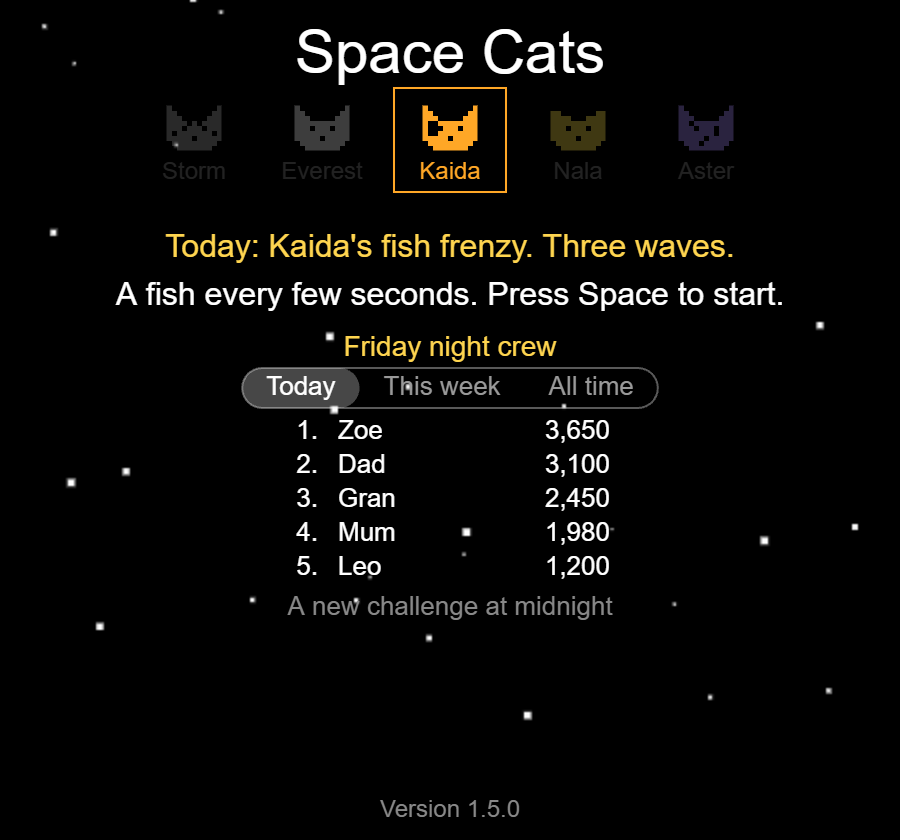
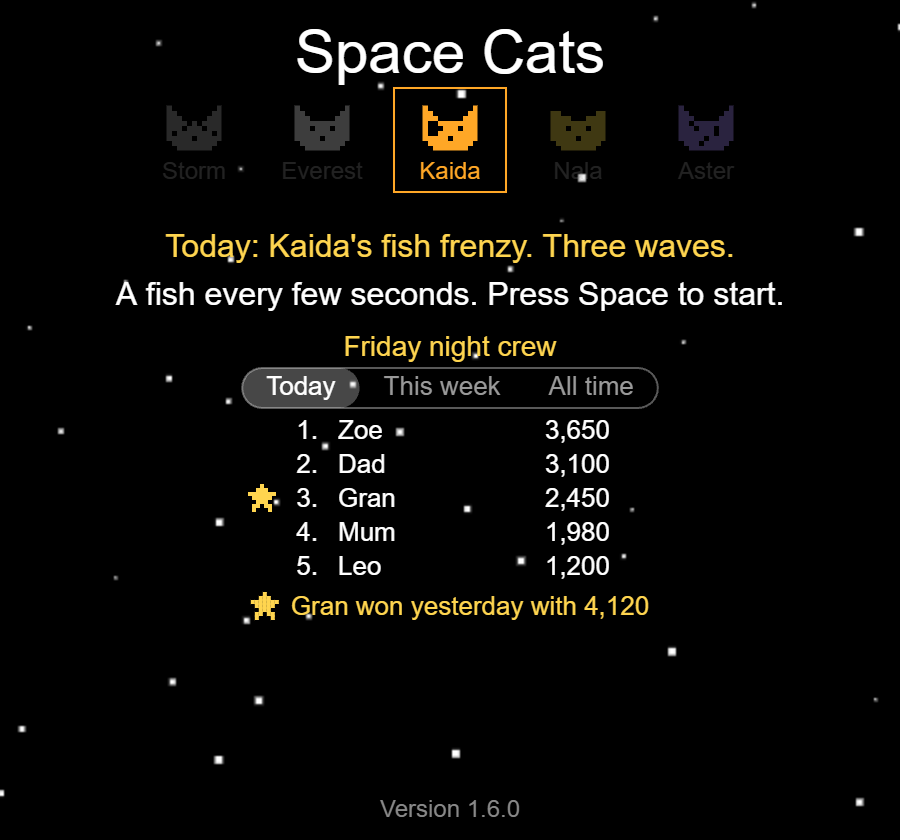
Give yesterday's challenge winner a star on the Today board
The Today board now names the winner of yesterday's challenge under its
top 10, next to a little gold pixel star, and if they've played today
too, the star sits beside their row, like the weekly crown. The board
reads yesterday's best from days/{day}/bests, which the rules already
allow, so nothing new is written. Space Cats 1.6.0; the README and its
picture of today's challenge show the star.

diff --git a/games/space-cats/js/spacecats.js b/games/space-cats/js/spacecats.js
@@ -1088,17 +1088,20 @@ function hasLeaderboard(game) {
 }
 
 //  Draws the leaderboard from y down: the board's name, a switch between
-//  this week's top 10 and the all-time one, each player's best, and under
-//  them who won last week. The player who just played is picked out,
+//  today's challenge's top 10, this week's and the all-time one, each
+//  player's best, and under them who won last week (or on Today, who won
+//  yesterday's challenge). The player who just played is picked out,
 //  scores from this device that are still waiting to go up are grey, and
-//  last week's winner has a crown if they're on this week's board too. It
-//  says if the board couldn't be reached.
+//  last week's winner has a crown if they're on this week's board too, as
+//  yesterday's winner has a star on today's. It says if the board couldn't
+//  be reached.
 function drawLeaderboard(game, ctx, y) {
   var board = game.leaderboard;
   var view = game.boardView;
   var weekly = view === 'week';
   var entries = board.top(view);
-  var champion = weekly ? board.champion() : null;
+  var champion = view === 'all' ? null : board.champion(view);
+  var badge = weekly ? CROWN : STAR;
   var x = game.width / 2;
   var rowsY = y + 42;
   var footerY = rowsY + Math.max(entries.length, 1) * 17 + 3;
@@ -1116,7 +1119,7 @@ function drawLeaderboard(game, ctx, y) {
     var entry = entries[i];
     var rowY = rowsY + i * 17;
     if (champion && entry.key === champion.key) {
-      drawCrown(ctx, x - 94, rowY);
+      drawBadge(ctx, badge, x - 94, rowY);
     }
     ctx.fillStyle = entry.key === board.highlightKey ? '#ffd54f' : (entry.pending ? '#999999' : '#ffffff');
     ctx.textAlign = "right";
@@ -1131,12 +1134,12 @@ function drawLeaderboard(game, ctx, y) {
     ctx.fillStyle = '#888888';
     ctx.fillText("Leaderboard offline", x, footerY);
   } else if (champion) {
-    var text = champion.name + " won last week with " + withCommas(champion.score);
-    var width = CROWN_WIDTH + 6 + ctx.measureText(text).width;
-    drawCrown(ctx, x - width / 2 + CROWN_WIDTH / 2, footerY);
+    var text = champion.name + (weekly ? " won last week with " : " won yesterday with ") + withCommas(champion.score);
+    var width = BADGE_WIDTH + 6 + ctx.measureText(text).width;
+    drawBadge(ctx, badge, x - width / 2 + BADGE_WIDTH / 2, footerY);
     ctx.textAlign = "left";
     ctx.fillStyle = '#ffd54f';
-    ctx.fillText(text, x - width / 2 + CROWN_WIDTH + 6, footerY);
+    ctx.fillText(text, x - width / 2 + BADGE_WIDTH + 6, footerY);
   } else if (view !== 'all' && board.status() === 'online') {
     ctx.fillStyle = '#888888';
     ctx.fillText(weekly ? "Starts fresh every Monday" : "A new challenge at midnight", x, footerY);
@@ -1160,7 +1163,6 @@ function fitText(ctx, text, width) {
   return text + "…";
 }
 
-//  The two top 10s the leaderboard can show, side by side above it.
 //  The top 10s the leaderboard can show, side by side above it: today's
 //  challenge, this week's and the all-time one. Picking Today also sets up
 //  today's challenge to play.
@@ -1262,24 +1264,35 @@ function tapBoardSwitch(game, point) {
   return !!view;
 }
 
-//  A little gold crown for last week's winner, centred on x, y.
+//  Little gold badges: a crown for last week's winner and a star for the
+//  winner of yesterday's challenge. Both are the same width.
 var CROWN = [
   "X..X..X",
   "XX.X.XX",
   "XXXXXXX",
   "XXXXXXX"
 ];
-var CROWN_PIXEL_SIZE = 2;
-var CROWN_WIDTH = CROWN[0].length * CROWN_PIXEL_SIZE;
+var STAR = [
+  "...X...",
+  "..XXX..",
+  "XXXXXXX",
+  ".XXXXX.",
+  "..XXX..",
+  ".XX.XX.",
+  ".X...X."
+];
+var BADGE_PIXEL_SIZE = 2;
+var BADGE_WIDTH = CROWN[0].length * BADGE_PIXEL_SIZE;
 
-function drawCrown(ctx, x, y) {
-  var left = x - CROWN_WIDTH / 2;
-  var top = y - CROWN.length * CROWN_PIXEL_SIZE / 2 - 1;
+//  Draws a badge centred on x, y.
+function drawBadge(ctx, badge, x, y) {
+  var left = x - BADGE_WIDTH / 2;
+  var top = y - badge.length * BADGE_PIXEL_SIZE / 2 - 1;
   ctx.fillStyle = '#ffd54f';
-  for (var row = 0; row < CROWN.length; row++) {
-    for (var col = 0; col < CROWN[row].length; col++) {
-      if (CROWN[row].charAt(col) === 'X') {
-        ctx.fillRect(left + col * CROWN_PIXEL_SIZE, top + row * CROWN_PIXEL_SIZE, CROWN_PIXEL_SIZE, CROWN_PIXEL_SIZE);
+  for (var row = 0; row < badge.length; row++) {
+    for (var col = 0; col < badge[row].length; col++) {
+      if (badge[row].charAt(col) === 'X') {
+        ctx.fillRect(left + col * BADGE_PIXEL_SIZE, top + row * BADGE_PIXEL_SIZE, BADGE_PIXEL_SIZE, BADGE_PIXEL_SIZE);
       }
     }
   }

diff --git a/games/space-cats/js/leaderboard.js b/games/space-cats/js/leaderboard.js
@@ -9,7 +9,8 @@
   Each board has its own players, by first name or nickname, shared by
   every game and device on it. The top 10s show each player once, with
   their best: this week's, which starts fresh every week and crowns last
-  week's winner, the all-time one, and today's, for the day's challenge.
+  week's winner, the all-time one, and today's, for the day's challenge,
+  which gives yesterday's winner a star.
 
   The game never depends on it. A score that makes the board is saved on
   the device first and uploaded when the board can be reached, so playing
@@ -170,8 +171,9 @@ var Leaderboard = (function() {
   var board = findBoard();
 
   //  The board as last fetched: this week's top 10, last week's winner, the
-  //  all-time top 10 and the board's players. The weekly ones say which
-  //  week they're for, so they can be left out once that week is over.
+  //  all-time top 10, the board's players, today's challenge's top 10 and
+  //  yesterday's winner. The weekly and daily ones say which week or day
+  //  they're for, so they can be left out once it's over.
   //  A row in a top 10 is one player's best: { key, player, name, score,
   //  playedAt }, where key is 'p:' and the player's id, or for scores from
   //  before players, 'i:' and their initials (and name is the initials).
@@ -341,8 +343,8 @@ var Leaderboard = (function() {
   }
 
   //  This week's top 10, last week's winner, the all-time top 10, today's
-  //  challenge's top 10 and the players, with the scores from before players
-  //  mixed in.
+  //  challenge's top 10, yesterday's winner and the players, with the scores
+  //  from before players mixed in.
   function fetchLists() {
     var week = thisWeek();
     var day = today();
@@ -351,14 +353,16 @@ var Leaderboard = (function() {
       fetchBests(week - 1, 1), fetchInitials(week - 1, 1),
       fetchBests(null, SIZE), fetchInitials(null, SIZE),
       fetchPlayers(),
-      fetchBests(null, SIZE, gamePath(board) + '/days/' + day)
+      fetchBests(null, SIZE, gamePath(board) + '/days/' + day),
+      fetchBests(null, 1, gamePath(board) + '/days/' + (day - 1))
     ]).then(function(found) {
       return {
         week: { week: week, rows: ranked(found[0].concat(found[1])) },
         champion: { week: week - 1, row: ranked(found[2].concat(found[3]))[0] || null },
         all: ranked(found[4].concat(found[5])),
         players: found[6],
-        today: { day: day, rows: found[7] }
+        today: { day: day, rows: found[7] },
+        yesterday: { day: day - 1, row: found[8][0] || null }
       };
     });
   }
@@ -655,9 +659,14 @@ var Leaderboard = (function() {
     return null;
   }
 
-  //  Last week's winner, or null if nobody played last week (or the board
-  //  hasn't been fetched since).
-  function champion() {
+  //  Last week's winner, or with 'today', the winner of yesterday's
+  //  challenge. Null if nobody played then (or the board hasn't been
+  //  fetched since).
+  function champion(view) {
+    if (view === 'today') {
+      var starred = lists.yesterday;
+      return starred && starred.day === today() - 1 ? starred.row : null;
+    }
     var crowned = lists.champion;
     return crowned && crowned.week === thisWeek() - 1 ? crowned.row : null;
   }

diff --git a/games/space-cats/index.html b/games/space-cats/index.html
@@ -8,9 +8,9 @@
   <!-- The ./ stops Vite's build reading these as package names. The ?v=
        matches the version in package.json: change both with each release,
        so browsers load that release's files rather than older copies. -->
-  <link href="./css/core.css?v=1.5.0" type="text/css" rel="stylesheet">
-  <link href="./css/typeography.css?v=1.5.0" type="text/css" rel="stylesheet">
-  <link href="./css/style.css?v=1.5.0" rel="stylesheet" type="text/css" />
+  <link href="./css/core.css?v=1.6.0" type="text/css" rel="stylesheet">
+  <link href="./css/typeography.css?v=1.6.0" type="text/css" rel="stylesheet">
+  <link href="./css/style.css?v=1.6.0" rel="stylesheet" type="text/css" />
   <!-- A cat in the browser tab, and on the home screen when the game is
        added to a phone. The game redraws the tab's cat as the one you play
        as. The manifest gives Android its icons and name. -->
@@ -48,9 +48,9 @@
     </div>
   </div>
 
-  <script src="js/starfield.js?v=1.5.0"></script>
-  <script src="js/spacecats.js?v=1.5.0"></script>
-  <script src="js/leaderboard.js?v=1.5.0"></script>
+  <script src="js/starfield.js?v=1.6.0"></script>
+  <script src="js/spacecats.js?v=1.6.0"></script>
+  <script src="js/leaderboard.js?v=1.6.0"></script>
   <script>
     //  Create the starfield.
     var container = document.getElementById('starfield');

diff --git a/index.html b/index.html
@@ -151,8 +151,8 @@
   </ul>
 
   <!-- Space Cats' own sprites and cats, so the page and the game always match. -->
-  <script src="games/space-cats/js/spacecats.js?v=1.5.0"></script>
-  <script src="games/space-cats/js/leaderboard.js?v=1.5.0"></script>
+  <script src="games/space-cats/js/spacecats.js?v=1.6.0"></script>
+  <script src="games/space-cats/js/leaderboard.js?v=1.6.0"></script>
   <script src="assets/arcadia.js?v=2.9.0"></script>
   <script type="module" src="assets/scene.js?v=2.9.0"></script>
 </body>

diff --git a/games/space-cats/README.md b/games/space-cats/README.md
@@ -87,7 +87,7 @@ The board's name heads it on the start screen and when a game ends. A board made
 
 Every day there's a new challenge: three waves, the same for everyone, played as the day's cat with that cat's twist. Pick **Today** on the board's switch (or **Today's challenge** without a board) and start.
 
-<img src="../../docs/daily.png" alt="The start screen on today's challenge: Kaida picked and the other cats dimmed, Today: Kaida's fish frenzy. Three waves. A fish every few seconds. Press Space to start, and the Friday night crew's Today board with Zoe, Dad, Gran, Mum and Leo, and A new challenge at midnight" width="360">
+<img src="../../docs/daily.png" alt="The start screen on today's challenge: Kaida picked and the other cats dimmed, Today: Kaida's fish frenzy. Three waves. A fish every few seconds. Press Space to start, and the Friday night crew's Today board with Zoe, Dad, Gran, Mum and Leo, a star beside Gran, and Gran won yesterday with 4,120" width="360">
 
 | Cat | Twist |
 |---|---|
@@ -101,6 +101,7 @@ Every day there's a new challenge: three waves, the same for everyone, played as
 - The bombs, the fish (when they come, which side, what they're worth) and the holes blasted in the moon rocks follow a pattern set by the date, so everyone faces the same run that day.
 - Clear all three waves and each cat you still have is worth 500. Run out of cats and the challenge ends where you got to.
 - Play as often as you like: the **Today** board shows each player's best of the day. Today's challenge doesn't count towards This week or All time, or the device's high score. During play and at the end it shows your best today.
+- Yesterday's winner gets a star. It's under the **Today** board, with their score, and if they've played today too, their star sits beside them.
 - Sharing after the challenge says where you came today, and its link opens straight on today's challenge.
 - The twists are in `DAILY_TWISTS` in `js/spacecats.js`, in the same order as the cats.
 

diff --git a/README.md b/README.md
@@ -58,7 +58,7 @@ When a score makes the board, the game asks who played. Each board has its own p
 
 Every board starts again at midnight on Monday, South African time. Each game shows this week's top 10 with a crown for last week's winner, and the all-time top 10 is a tap away. When a game ends, Share sends the result to the family chat, with a link back to the board.
 
-Space Cats also has a new challenge every day, the same three waves for everyone, played as the day's cat with its twist, with its own **Today** top 10 ([Space Cats' README](games/space-cats/README.md#todays-challenge) has the details).
+Space Cats also has a new challenge every day, the same three waves for everyone, played as the day's cat with its twist, with its own **Today** top 10 and a star for yesterday's winner ([Space Cats' README](games/space-cats/README.md#todays-challenge) has the details).
 
 A board's name comes from its code, so `friday-night-crew-7e3xkq` shows as **Friday night crew**: in the invite when someone opens the link, on the home page, and above the Space Cats top 10s. A board made without a name shows its code instead.
 
